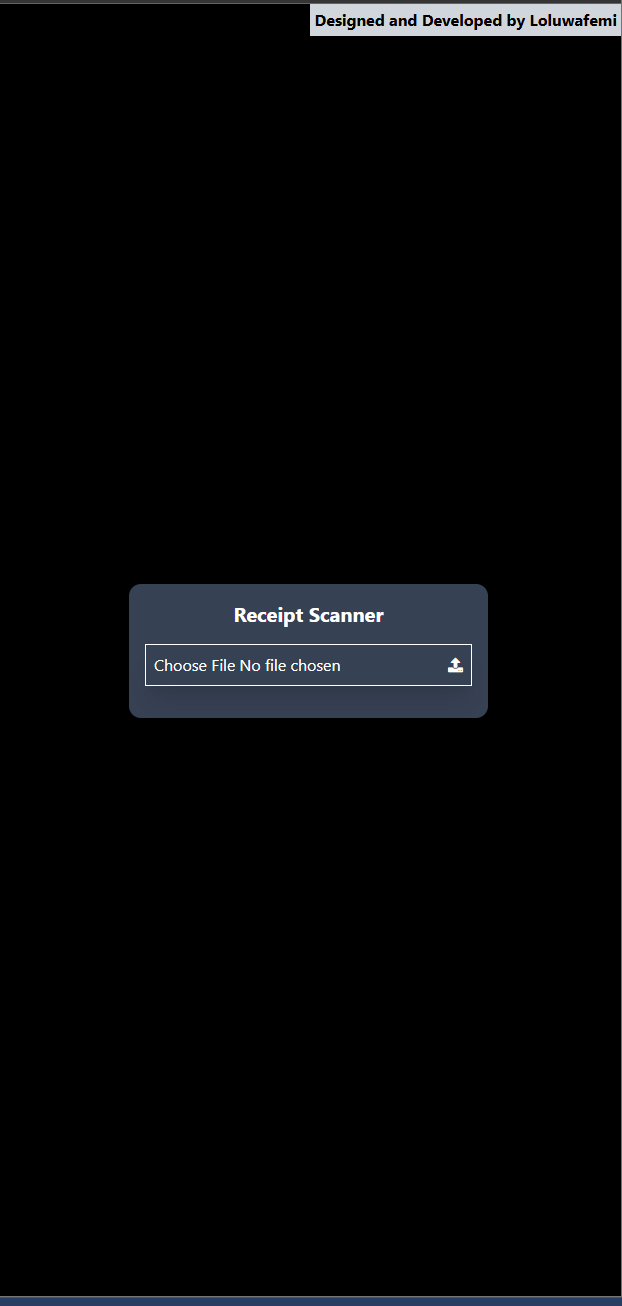
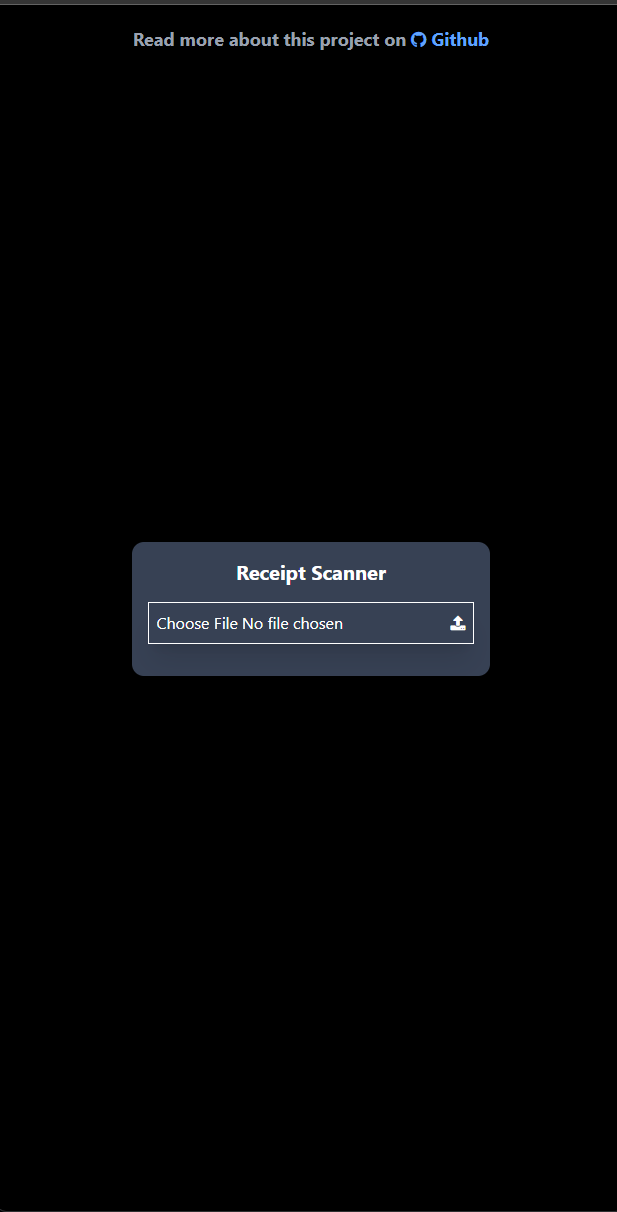
updating system

Changed region(s): [[0.0, 0.0, 1.0, 1.0], [0.2156, 0.4274, 0.8006, 0.58], [0.1848, 0.4579, 0.6159, 0.5495]]

diff --git a/index.html b/index.html
@@ -14,6 +14,7 @@
         <div class="p-2 border shadow-xl mt-4 flex items-center flex-row">
             <input type="file" placeholder="Select a file"
             id="upload"
+            accept="image/png, image/jpeg, image/jpg"
             >
             <i class="fa fa-upload"></i>
         </div>
@@ -26,8 +27,12 @@
 
     </div>
     <!-- This receipt scanning tool is designed and developed by shokefunfemi@gmail.com 😆😀😃 -->
-    <div class="absolute top-0 right-0 bg-gray-300 p-1">
-        <p class="font-bold text-md">Designed and Developed by Loluwafemi</p>
+    <div class="absolute top-0 text-gray-400 mt-4 p-1">
+        <p class="font-bold text-lg">Read more about this project on 
+            <a href="https://github.com/Loluwafemi/receipt-scanner" class="text-blue-400">
+                <i class="fa fa-github" aria-hidden="true"></i>
+                Github</a>
+        </p>
     </div>
     <script>
            document.querySelector('#upload').addEventListener('change', (event)=>{
